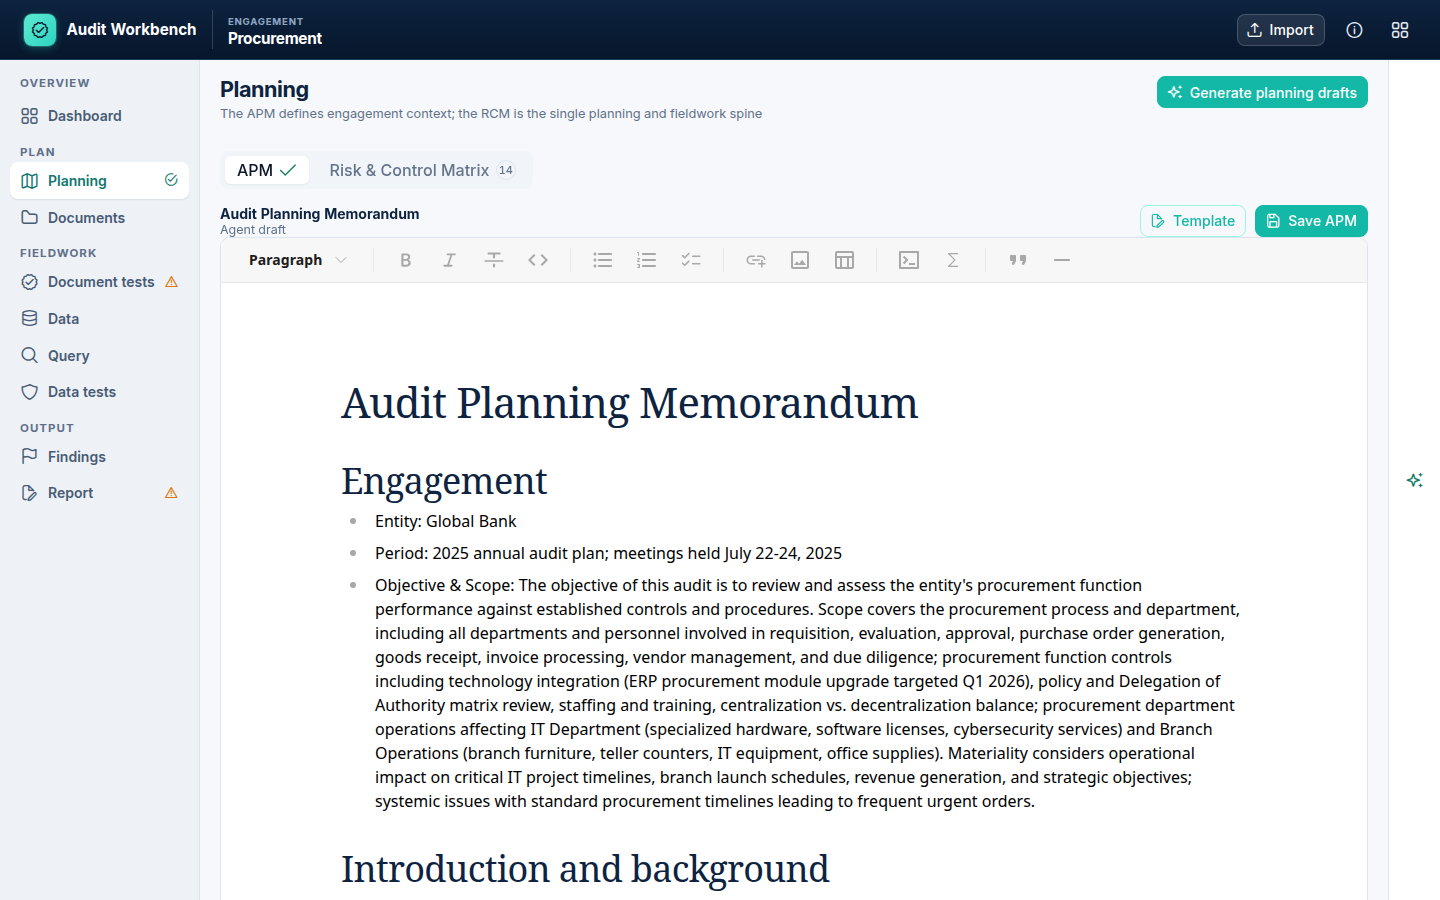
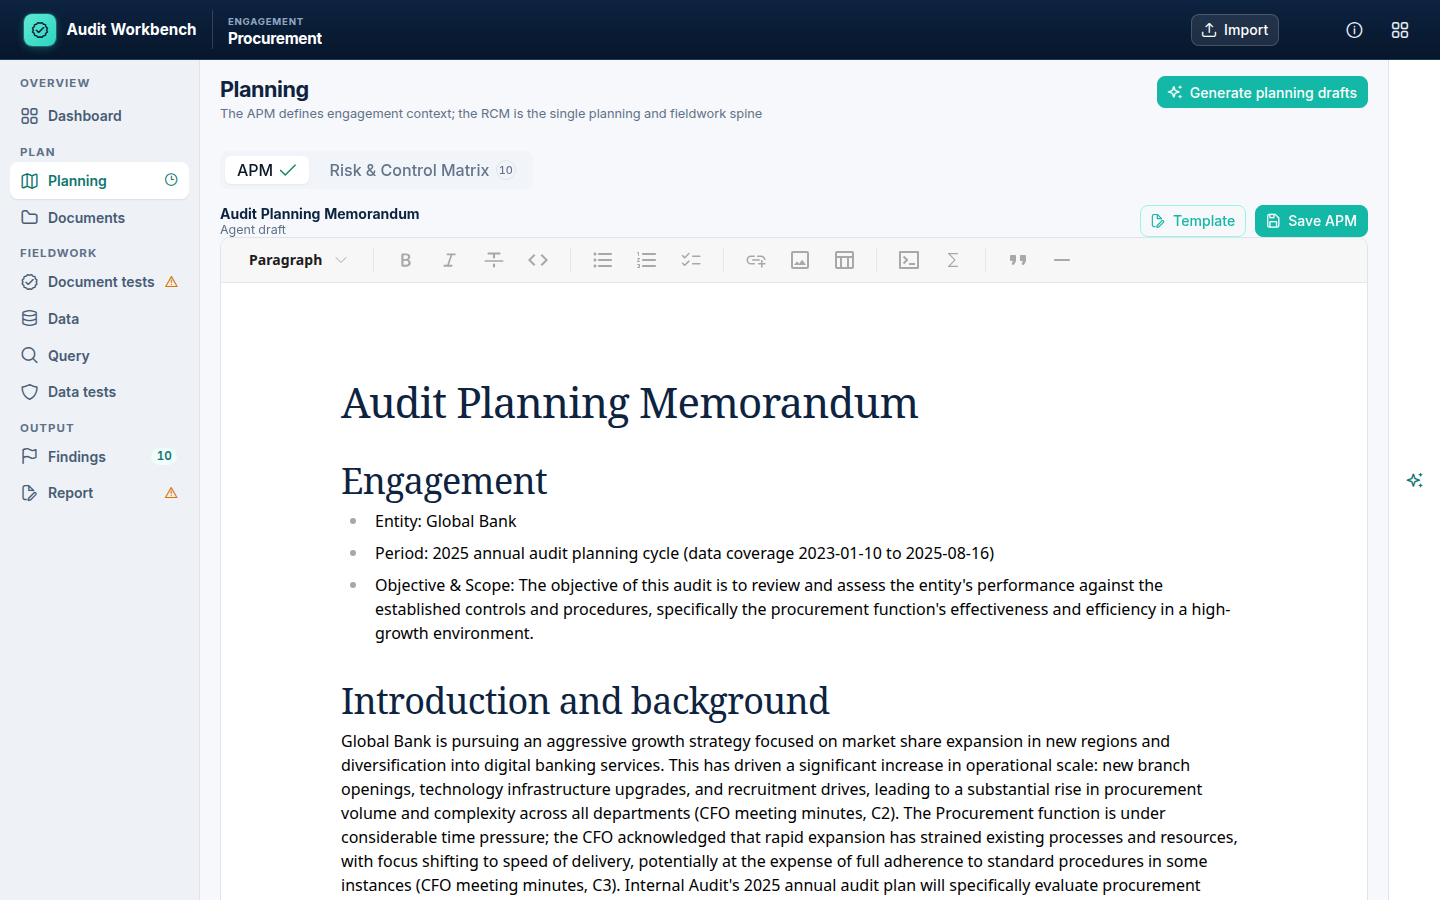
updated about.html

Changed region(s): [[0.2188, 0.6222, 0.875, 0.9956], [0.4062, 0.5911, 0.6875, 0.6222], [0.8438, 0.0311, 0.9062, 0.0622]]

diff --git a/frontend/public/about.html b/frontend/public/about.html
@@ -311,24 +311,17 @@
     .source-card small { display: block; margin-top: 2px; color: var(--muted); font-size: 11px; }
     .converge { display: flex; align-items: center; gap: 13px; margin: 13px 0; color: var(--teal-deep); font-size: 11px; font-weight: 800; letter-spacing: .08em; text-transform: uppercase; }
     .converge::before, .converge::after { content: ""; height: 1px; flex: 1; background: var(--line); }
-    .flow-track { display: grid; grid-template-columns: repeat(6, 1fr); gap: 9px; }
-    .flow-step {
-      position: relative;
-      min-height: 142px;
-      padding: 17px 16px;
-      border: 1px solid #cfdce8;
-      border-radius: 12px;
-      background: #fff;
-    }
-    .flow-step::after {
+    .film-strip { display: grid; grid-template-columns: repeat(5, 1fr); gap: 15px; }
+    .film-item { position: relative; margin: 0; }
+    .film-item::after {
       content: "→";
       position: absolute;
       z-index: 2;
-      right: -15px;
-      top: 54px;
+      right: -18px;
+      top: 34%;
       display: grid;
-      width: 21px;
-      height: 21px;
+      width: 22px;
+      height: 22px;
       place-items: center;
       border: 1px solid var(--line);
       border-radius: 50%;
@@ -337,13 +330,22 @@
       font-size: 11px;
       font-weight: 900;
     }
-    .flow-step:last-child::after { display: none; }
-    .step-no { color: var(--teal-deep); font-size: 10px; font-weight: 850; letter-spacing: .1em; }
-    .flow-step h3 { margin: 12px 0 6px; font-size: 16px; line-height: 1.15; letter-spacing: -.025em; }
-    .flow-step p { margin: 0; color: var(--muted); font-size: 11.5px; line-height: 1.4; }
-    .flow-step.key { color: #fff; border-color: var(--teal-deep); background: linear-gradient(145deg, #0d4e50, #0f766e); }
-    .flow-step.key .step-no { color: var(--mint); }
-    .flow-step.key p { color: #cbe9e5; }
+    .film-item:last-child::after { display: none; }
+    .film-shot {
+      border: 1px solid #c6d3e0;
+      border-radius: 9px;
+      background: #fff;
+      box-shadow: 0 12px 30px rgba(11,31,54,.12);
+      overflow: hidden;
+      transition: transform .25s, box-shadow .25s;
+    }
+    .film-item:hover .film-shot { transform: translateY(-5px); box-shadow: 0 20px 42px rgba(11,31,54,.18); }
+    .film-item.key .film-shot { border-color: var(--teal); box-shadow: 0 0 0 2px rgba(20,184,166,.35), 0 12px 30px rgba(11,31,54,.12); }
+    .film-shot img { display: block; width: 100%; aspect-ratio: 16 / 10; object-fit: cover; object-position: top; }
+    .film-cap { margin-top: 10px; }
+    .film-cap small { display: block; color: var(--teal-deep); font-size: 9.5px; font-weight: 850; letter-spacing: .1em; text-transform: uppercase; }
+    .film-cap b { display: block; margin-top: 3px; font-size: 13.5px; letter-spacing: -.02em; }
+    .film-cap span { display: block; margin-top: 2px; color: var(--muted); font-size: 11px; line-height: 1.35; }
     .governance-rail {
       display: flex;
       align-items: center;
@@ -447,9 +449,8 @@
       .scroll-hint { margin-top: 24px; }
       .source-row { margin-top: 17px; }
       .source-card { padding: 11px 15px; }
-      .flow-step { min-height: 120px; padding: 13px; }
-      .flow-step h3 { margin-top: 8px; font-size: 14px; }
-      .flow-step p { font-size: 10.5px; }
+      .film-cap span { display: none; }
+      .film-cap b { font-size: 12.5px; }
       .trace-layout { margin-top: 19px; }
       .trace-node { min-height: 175px; padding: 14px; }
       .trace-node p { font-size: 10.5px; }
@@ -483,9 +484,9 @@
       .outcome-strip { grid-template-columns: 1fr 1fr; }
       .outcome:nth-child(2) { border-right: 0; }
       .outcome:nth-child(-n+2) { border-bottom: 1px solid rgba(255,255,255,.12); }
-      .source-row, .flow-track, .trace-chain { grid-template-columns: 1fr; }
-      .flow-step, .trace-node { min-height: auto; }
-      .flow-step::after, .trace-node::after { display: none; }
+      .source-row, .film-strip, .trace-chain { grid-template-columns: 1fr; }
+      .trace-node { min-height: auto; }
+      .film-item::after, .trace-node::after { display: none; }
       .governance-rail { flex-direction: column; align-items: flex-start; gap: 6px; }
       .shot img { max-height: none; }
       .scroll-hint { display: none; }
@@ -549,13 +550,27 @@
 
           <div class="converge" data-anim="3">Engagement understanding</div>
 
-          <div class="flow-track" data-anim="3" aria-label="Audit transformation flow">
-            <article class="flow-step"><span class="step-no">01 · UNDERSTAND</span><h3>Context &amp; scope</h3><p>Objectives, stakeholders, processes and materiality are established.</p></article>
-            <article class="flow-step"><span class="step-no">02 · PLAN</span><h3>APM</h3><p>The engagement approach, scope and priorities become an editable plan.</p></article>
-            <article class="flow-step key"><span class="step-no">03 · STRUCTURE</span><h3>RCM</h3><p>Risks, controls and planned procedures form the fieldwork spine.</p></article>
-            <article class="flow-step"><span class="step-no">04 · EXECUTE</span><h3>Testing</h3><p>Data and document procedures assess each planned control or risk.</p></article>
-            <article class="flow-step"><span class="step-no">05 · EVALUATE</span><h3>Results</h3><p>Exceptions become reviewed observations with clear dispositions.</p></article>
-            <article class="flow-step"><span class="step-no">06 · COMMUNICATE</span><h3>Report</h3><p>Supported findings and working papers inform the audit report.</p></article>
+          <div class="film-strip" data-anim="3" aria-label="Audit transformation flow, shown in the product">
+            <figure class="film-item">
+              <div class="film-shot"><img src="/showcase/sop-context.png" alt="Procurement SOP extract previewed in the document library" loading="lazy" /></div>
+              <figcaption class="film-cap"><small>01 · Context</small><b>Policies &amp; SOPs</b><span>Criteria and evidence are ingested and previewed.</span></figcaption>
+            </figure>
+            <figure class="film-item">
+              <div class="film-shot"><img src="/showcase/planning-apm.png" alt="Generated Audit Planning Memorandum in the editor" loading="lazy" /></div>
+              <figcaption class="film-cap"><small>02 · Plan</small><b>Generated APM</b><span>Context becomes an editable planning memorandum.</span></figcaption>
+            </figure>
+            <figure class="film-item key">
+              <div class="film-shot"><img src="/showcase/rcm-matrix.png" alt="Generated Risk and Control Matrix with planned tests" loading="lazy" /></div>
+              <figcaption class="film-cap"><small>03 · Structure</small><b>Generated RCM</b><span>Risks, controls and planned procedures form the spine.</span></figcaption>
+            </figure>
+            <figure class="film-item">
+              <div class="film-shot"><img src="/showcase/doc-tests.png" alt="Document test worklist with matched and manual-review items" loading="lazy" /></div>
+              <figcaption class="film-cap"><small>04 · Execute</small><b>Data &amp; document tests</b><span>RCM-linked procedures run with durable results.</span></figcaption>
+            </figure>
+            <figure class="film-item">
+              <div class="film-shot"><img src="/showcase/report-draft.png" alt="Preliminary internal audit working draft in the report editor" loading="lazy" /></div>
+              <figcaption class="film-cap"><small>05 · Communicate</small><b>Findings &amp; report</b><span>Supported findings inform the drafted report.</span></figcaption>
+            </figure>
           </div>
 
           <div class="governance-rail" data-anim="4">
@@ -565,7 +580,29 @@
       </div>
     </section>
 
-    <!-- 03 · Leadership value -->
+    <!-- 03 · Agent -->
+    <section class="slide" id="agent" data-title="Agent">
+      <div class="slide-inner">
+        <div class="shell split">
+          <div class="split-copy" data-anim>
+            <p class="eyebrow">Agentic execution</p>
+            <h2>One instruction. The engagement gets built.</h2>
+            <p>From the assistant panel, a single request — <em>“Prepare a full audit working draft”</em> — planned and executed a 60-task run in this engagement: reading the SOP and minutes, drafting the APM and RCM, preparing tests, creating findings and generating working papers and the report draft.</p>
+            <div class="value-list">
+              <div class="value-item"><span class="value-no">01</span><div><strong>Two working modes</strong><p>Auto applies validated changes; Ask pauses at editable approval batches.</p></div></div>
+              <div class="value-item"><span class="value-no">02</span><div><strong>Steerable, durable runs</strong><p>Pause, resume, redirect or cancel — progress and history survive restarts.</p></div></div>
+              <div class="value-item"><span class="value-no">03</span><div><strong>Honest status</strong><p>Issues are reported, not hidden — completed work stays clearly separated from open items.</p></div></div>
+            </div>
+          </div>
+          <div class="split-media" data-anim="2">
+            <div class="shot"><img src="/showcase/agent-chat.png" alt="Audit assistant chat panel beside the generated planning memorandum, showing a completed 60-task agent run" loading="lazy" /></div>
+            <p class="media-caption">The assistant panel keeps the run, its tasks and its results beside the work itself.</p>
+          </div>
+        </div>
+      </div>
+    </section>
+
+    <!-- 04 · Leadership value -->
     <section class="slide" id="leadership-value" data-title="Leadership value">
       <div class="slide-inner">
         <div class="shell split">
